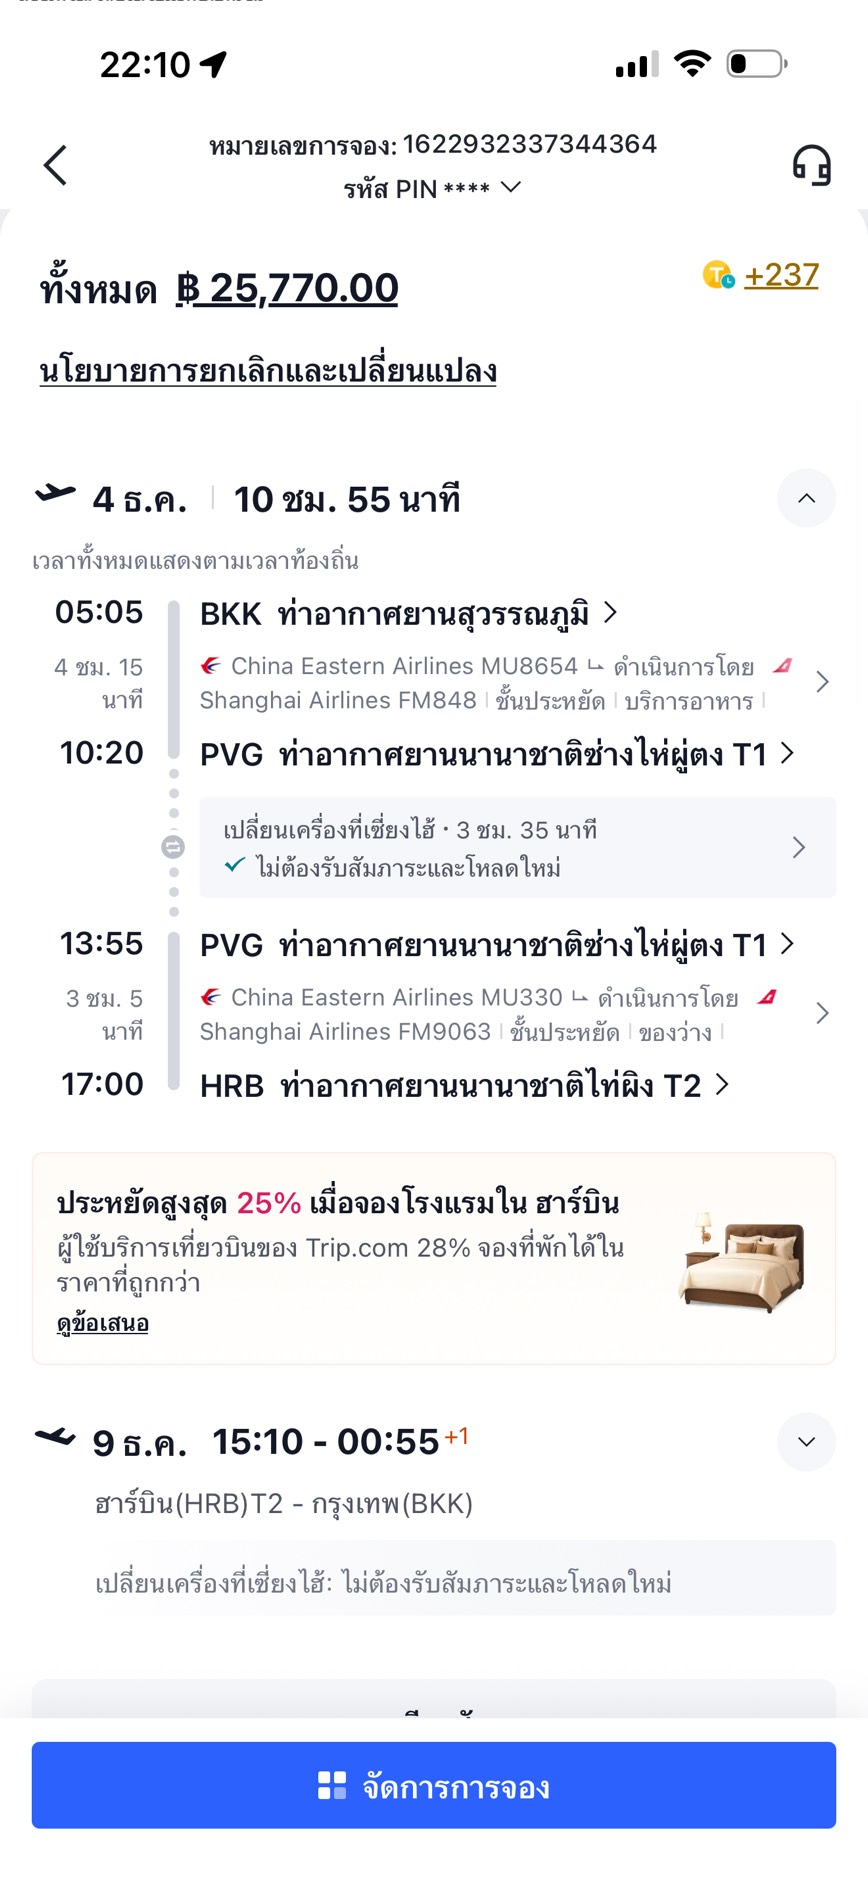
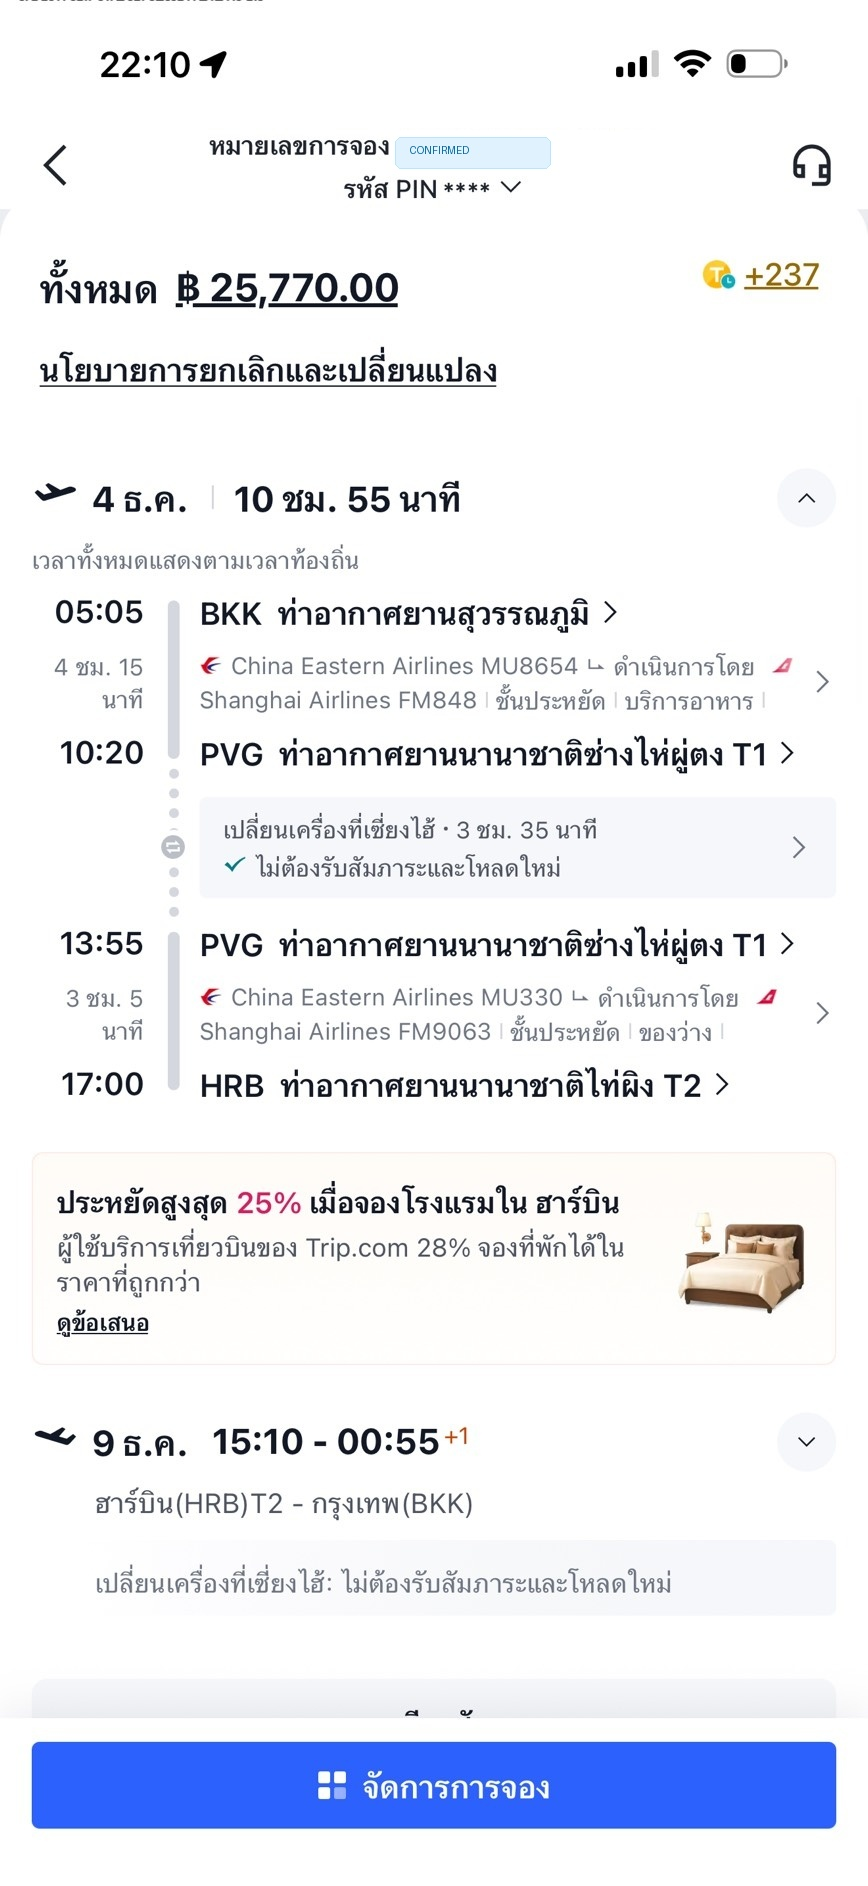
Censor personal names and booking numbers across the project for public hosting

Changed region(s): [[0.4355, 0.0615, 0.7465, 0.0923], [0.4355, 0.9226, 0.4666, 0.9533]]

diff --git a/Harbin/app.js b/Harbin/app.js
@@ -1523,7 +1523,7 @@ function renderSelectedTimelineDetail() {
     const activeModeKey = multiModalBundle.activeMode;
 
     if (item.isFlightStep) {
-      transitArrowSummary = `⬇ เที่ยวบินตามตาราง (Booking: 1622932337344364) + คลิกเลือกวิธีเดินทางจากสนามบินฮาร์บิน T2 เข้าที่พักด้านล่าง`;
+      transitArrowSummary = `⬇ เที่ยวบินตามตาราง (Trip.com Booking: Confirmed ✅) + คลิกเลือกวิธีเดินทางจากสนามบินฮาร์บิน T2 เข้าที่พักด้านล่าง`;
     } else if (effDistKm <= 0.45) {
       const meters = Math.max(50, Math.round(effDistKm * 1000));
       transitArrowSummary = `⬇ ห่างกันเพียง ~${meters} เมตร (คลิกเลือกวิธีเดินทางด้านล่างเพื่อแสดงเส้นทางแยกช่วงบนแผนที่)`;
@@ -3329,7 +3329,7 @@ function exportTripToXlsx() {
       // Build itemized transit steps (แยกเป็นข้อๆ 1, 2, 3)
       let transitStepsList = "";
       if (item.isFlightStep) {
-        transitStepsList = `1) ✈ เที่ยวบินตามตาราง (Booking: 1622932337344364)\n2) 🚌 เข้าเมืองด้วย Airport Bus สาย 3 ลงถนนจงหยาง (20 หยวน) หรือ 🚕 DiDi (~45 นาที)`;
+        transitStepsList = `1) ✈ เที่ยวบินตามตาราง (Trip.com Booking: Confirmed ✅)\n2) 🚌 เข้าเมืองด้วย Airport Bus สาย 3 ลงถนนจงหยาง (20 หยวน) หรือ 🚕 DiDi (~45 นาที)`;
       } else {
         const bundle = buildMultiModalPlansForStop(
           prevGlobalItem || { spotId: 11 },
@@ -3481,7 +3481,7 @@ function exportTripToXlsx() {
 }
 
 // ============================================================================
-// CHECKLIST INTERACTIVE MODULE (สำหรับ คุณรังสรรค์ & คุณสุนิสา)
+// CHECKLIST INTERACTIVE MODULE (สำหรับ ผู้เดินทาง 2 ท่าน · 2 Travelers)
 // ============================================================================
 const HARBIN_CHECKLIST_STORAGE_KEY = "harbin_travel_checklist_state_v2";
 
@@ -3489,7 +3489,7 @@ const HARBIN_CHECKLIST_DATA = {
   shared: {
     title: "🤝 ของใช้ร่วมกัน & ภารกิจส่วนกลาง (Shared Items)",
     items: [
-      { id: "sh_flight", text: "ใบยืนยันตั๋วเครื่องบินไป-กลับ (Trip.com Booking: 1622932337344364) พิมพ์สำรอง 1 ชุด" },
+      { id: "sh_flight", text: "ใบยืนยันตั๋วเครื่องบินไป-กลับ (Trip.com Booking: Confirmed ✅) พิมพ์สำรอง 1 ชุด" },
       { id: "sh_hotel", text: "ใบจองโรงแรม / แผนเดินทาง 6 วัน (พิมพ์ภาษาอังกฤษ/จีน เผื่อ ตม. จีนขอดู ฟรีวีซ่า 30 วัน)" },
       { id: "sh_cash", text: "เงินสดหยวน (RMB) ติดตัวไว้สำรองฉุกเฉิน (ประมาณ 1,000 – 1,500 หยวน)" },
       { id: "sh_apps", text: "แอปจำเป็นในเครื่อง: Amap (高德地图) แผนที่จีนแม่นยำ + Baidu/Google Translate ภาษาจีน Offline" },
@@ -3510,7 +3510,7 @@ const HARBIN_CHECKLIST_DATA = {
   personal: {
     rangsan: {
       key: "rangsan",
-      name: "👨 คุณรังสรรค์ (Rangsan)",
+      name: "👨 ผู้เดินทาง 1 (Traveler 1)",
       themeClass: "rangsan",
       badgeColor: "#0284c7",
       items: [
@@ -3539,7 +3539,7 @@ const HARBIN_CHECKLIST_DATA = {
     },
     sunisa: {
       key: "sunisa",
-      name: "👩 คุณสุนิสา (Sunisa)",
+      name: "👩 ผู้เดินทาง 2 (Traveler 2)",
       themeClass: "sunisa",
       badgeColor: "#ec4899",
       items: [
@@ -3558,7 +3558,7 @@ const HARBIN_CHECKLIST_DATA = {
         { id: "sn_socks", text: "ถุงเท้ากันหนาว Wool / Thermal Socks หนาพิเศษ (5–6 คู่)" },
         { id: "sn_gloves", text: "ถุงมือกันหนาวกันลมทัชสกรีนได้ + ถุงมือผ้าบางชั้นใน" },
         { id: "sn_hat", text: "หมวกไหมพรม / หมวกบุขนนุ่มปิดคลุมหูมิดชิด (1–2 ใบ)" },
-        { id: "sn_earmuffs", text: "ที่ปิดหูบุขน (Earmuffs) กันลมหนาวบาดหู (พิเศษสำหรับคุณสุนิสา)" },
+        { id: "sn_earmuffs", text: "ที่ปิดหูบุขน (Earmuffs) กันลมหนาวบาดหู (พิเศษสำหรับผู้เดินทาง 2)" },
         { id: "sn_scarf", text: "ผ้าพันคอหนานุ่ม หรือ ปลอกคอกันลม (Neck Warmer)" },
         { id: "sn_sunglasses", text: "แว่นกันแดด (ป้องกันแสงสะท้อนหิมะ Snow Blindness)" },
         { id: "sn_mask", text: "หน้ากากอนามัย / แมสก์ผ้าหนา ช่วยให้อากาศหายใจอุ่นขึ้น" },
@@ -3662,7 +3662,7 @@ function renderChecklist() {
     container.appendChild(sharedCard);
   }
 
-  // 2. Render 2-Column Split for Personal Items (Rangsan & Sunisa)
+  // 2. Render 2-Column Split for Personal Items (Traveler 1 & Traveler 2)
   const twoColGrid = document.createElement("div");
   twoColGrid.className = "checklist-two-col-grid";
 

diff --git a/Harbin/index.html b/Harbin/index.html
@@ -46,7 +46,7 @@
 
     <!-- Header Quick Links & Controls -->
     <div class="header-actions">
-      <button id="btnOpenChecklistModal" class="btn-action" style="background:linear-gradient(135deg,#0284c7,#0369a1); color:#fff; border-color:#0284c7; font-weight:800;" title="เปิดดูรายการเช็คลิสต์เตรียมตัวสำหรับคุณรังสรรค์และคุณสุนิสา">
+      <button id="btnOpenChecklistModal" class="btn-action" style="background:linear-gradient(135deg,#0284c7,#0369a1); color:#fff; border-color:#0284c7; font-weight:800;" title="เปิดดูรายการเช็คลิสต์เตรียมตัวสำหรับผู้เดินทาง 2 ท่าน">
         <span>📋</span> Checklist เตรียมตัว (<span id="headerChecklistBadge">0%</span>)
       </button>
       <button id="btnExportXlsx" class="btn-action" style="background:linear-gradient(135deg,#10b981,#059669); color:#fff; border-color:#047857; font-weight:800;" title="ดาวน์โหลดแผนการเดินทางและลิสต์สถานที่ทั้งหมดเป็นไฟล์ Excel (.xlsx) แยกเป็นข้อๆ">
@@ -470,7 +470,7 @@
       <div class="modal-header">
         <div>
           <span class="col-part-pill">✈ CONFIRMED FLIGHT TICKET · FOLDER 1</span>
-          <h3 id="flightModalTitle">ตารางบินจริง (หมายเลขการจอง: 1622932337344364)</h3>
+          <h3 id="flightModalTitle">ตารางบินจริง (Trip.com Booking: Confirmed ✅)</h3>
         </div>
         <button class="modal-close" id="btnCloseFlightModal">✕</button>
       </div>
@@ -531,7 +531,7 @@
   </div>
 
   <!-- =========================================================================
-       MODAL 4: TRAVEL PREPARATION CHECKLIST (คุณรังสรรค์ & คุณสุนิสา)
+       MODAL 4: TRAVEL PREPARATION CHECKLIST (ผู้เดินทาง 2 ท่าน · 2 Travelers)
        ========================================================================= -->
   <div class="modal-backdrop" id="checklistModalBackdrop" hidden>
     <div class="modal-card checklist-modal-card" role="dialog" aria-labelledby="checklistModalTitle">
@@ -539,7 +539,7 @@
         <div>
           <span class="col-part-pill" style="background:#e0f2fe; color:#0369a1; font-weight:700;">📋 HARBIN TRAVEL PREPARATION · 6 DAYS 5 NIGHTS</span>
           <h3 id="checklistModalTitle" style="margin:4px 0 0; font-size:1.05rem; font-weight:800; color:#0f172a;">
-            เช็คลิสต์เตรียมตัวเดินทางฮาร์บิน (คุณรังสรรค์ &amp; คุณสุนิสา)
+            เช็คลิสต์เตรียมตัวเดินทางฮาร์บิน (ผู้เดินทาง 2 ท่าน · 2 Travelers)
           </h3>
           <span style="font-size:0.75rem; color:#64748b; margin-top:2px; display:inline-block;">
             ❄ สภาพอากาศเป้าหมาย: หิมะตก อุณหภูมิ -10°C ถึง -22°C (4 – 9 ธ.ค. 2026)

diff --git a/Harbin/style.css b/Harbin/style.css
@@ -3348,7 +3348,7 @@ body.is-dragging .timeline-dropzone .drop-hint {
 }
 
 /* ==========================================================================
-   CHECKLIST MODAL STYLES (คุณรังสรรค์ & คุณสุนิสา)
+   CHECKLIST MODAL STYLES (ผู้เดินทาง 2 ท่าน · 2 Travelers)
    ========================================================================== */
 .checklist-modal-card {
   max-width: 840px;

diff --git a/Harbin/harbin_data.js b/Harbin/harbin_data.js
@@ -1889,7 +1889,7 @@ const HARBIN_ATTRACTIONS = [
 ];
 
 // Default 6-Day Harbin Slow-Life Timeline Itinerary (Walk, Eat, Visit, Transit)
-// Includes Confirmed Flight Schedule from 1/S__27820034.jpg (Booking: 1622932337344364)
+// Includes Confirmed Flight Schedule from 1/S__27820034.jpg (Trip.com Booking: Confirmed ✅)
 const DEFAULT_HARBIN_TIMELINE = {
   day1: {
     labelTh: "Day 1 (4 ธ.ค.)",

diff --git a/Harbin/Checklist_Harbin.md b/Harbin/Checklist_Harbin.md
@@ -1,7 +1,7 @@
 # 📋 รายการเตรียมตัวเดินทาง (Travel Preparation Checklist)
 ### มนต์เสน่ห์นครน้ำแข็งฮาร์บิน 6 วัน 5 คืน (4 – 9 ธันวาคม 2026)
 **สภาพอากาศเป้าหมาย:** หิมะตก อุณหภูมิ -10°C ถึง -22°C  
-**ผู้เดินทาง:** คุณรังสรรค์ (Rangsan) & คุณสุนิสา (Sunisa)
+**ผู้เดินทาง:** ผู้เดินทาง 2 ท่าน (2 Travelers)
 
 ---
 
@@ -9,7 +9,7 @@
 *(รายการที่ใช้ร่วมกัน 1 ชิ้น/กองกลาง เตรียมร่วมกัน)*
 
 - [ ] **เอกสาร & การเงินส่วนกลาง:**
-  - [ ] ใบยืนยันตั๋วเครื่องบินไป-กลับ (Trip.com หมายเลขการจอง: `1622932337344364`) พิมพ์สำรอง 1 ชุด
+  - [ ] ใบยืนยันตั๋วเครื่องบินไป-กลับ (Trip.com Booking: Confirmed ✅) พิมพ์สำรอง 1 ชุด
   - [ ] ใบจองโรงแรม / แผนเดินทาง 6 วัน (พิมพ์ภาษาอังกฤษ/จีน เผื่อ ตม. จีนขอดู *ฟรีวีซ่าไทย-จีน 30 วัน*)
   - [ ] เงินสดหยวน (RMB) ติดตัวไว้สำรองฉุกเฉิน (ประมาณ 1,000 – 1,500 หยวน)
   - [ ] แอปพลิเคชันในเครื่อง: ติดตั้ง **Amap (高德地图)** แผนที่จีนแม่นยำ + โหลดไฟล์ภาษาจีนแบบ Offline ในแอปแปลภาษา
@@ -35,7 +35,7 @@
 ## 🎒 ส่วนที่ 2: ของใช้และเครื่องแต่งกายส่วนตัว (Personal Items)
 *(แบ่งเป็น 2 ส่วนสำหรับแยกกันตรวจเช็คของตนเอง)*
 
-| 👨 รายการของคุณรังสรรค์ (Rangsan) | 👩 รายการของคุณสุนิสา (Sunisa) |
+| 👨 รายการของผู้เดินทาง 1 (Traveler 1) | 👩 รายการของผู้เดินทาง 2 (Traveler 2) |
 | :--- | :--- |
 | **[ เอกสาร & อุปกรณ์ไอที ]** | **[ เอกสาร & อุปกรณ์ไอที ]** |
 | - [ ] หนังสือเดินทาง (Passport) อายุ > 6 เดือน | - [ ] หนังสือเดินทาง (Passport) อายุ > 6 เดือน |

diff --git a/2026/Plan_05_Harbin.md b/2026/Plan_05_Harbin.md
@@ -10,7 +10,7 @@
 
 ## ✈ รายละเอียดเที่ยวบินที่จองจริง (Confirmed Flight Details)
 
-จองผ่าน Trip.com (หมายเลขการจอง: `1622932337344364`)  
+จองผ่าน Trip.com (หมายเลขการจอง: `Confirmed ✅`)  
 สายการบิน **China Eastern Airlines / Shanghai Airlines**  
 *ยอดชำระตั๋วเครื่องบินรวม 2 ท่าน: 25,770 บาท (เฉลี่ยท่านละ 12,885 บาท รวมโหลดสัมภาระเรียบร้อย ไม่ต้องรับกระเป๋าตอนต่อเครื่อง)*
 

diff --git a/Harbin/Plan_05_Harbin.md b/Harbin/Plan_05_Harbin.md
@@ -10,7 +10,7 @@
 
 ## ✈ รายละเอียดเที่ยวบินที่จองจริง (Confirmed Flight Details)
 
-จองผ่าน Trip.com (หมายเลขการจอง: `1622932337344364`)  
+จองผ่าน Trip.com (หมายเลขการจอง: `Confirmed ✅`)  
 สายการบิน **China Eastern Airlines / Shanghai Airlines**  
 *ยอดชำระตั๋วเครื่องบินรวม 2 ท่าน: 25,770 บาท (เฉลี่ยท่านละ 12,885 บาท รวมโหลดสัมภาระเรียบร้อย ไม่ต้องรับกระเป๋าตอนต่อเครื่อง)*
 

diff --git a/Plan_05_Harbin.md b/Plan_05_Harbin.md
@@ -10,7 +10,7 @@
 
 ## ✈ รายละเอียดเที่ยวบินที่จองจริง (Confirmed Flight Details)
 
-จองผ่าน Trip.com (หมายเลขการจอง: `1622932337344364`)  
+จองผ่าน Trip.com (หมายเลขการจอง: `Confirmed ✅`)  
 สายการบิน **China Eastern Airlines / Shanghai Airlines**  
 *ยอดชำระตั๋วเครื่องบินรวม 2 ท่าน: 25,770 บาท (เฉลี่ยท่านละ 12,885 บาท รวมโหลดสัมภาระเรียบร้อย ไม่ต้องรับกระเป๋าตอนต่อเครื่อง)*
 
